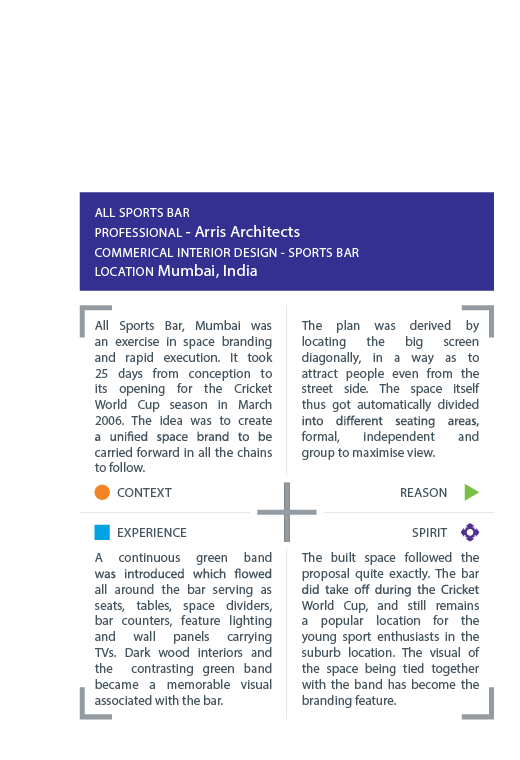
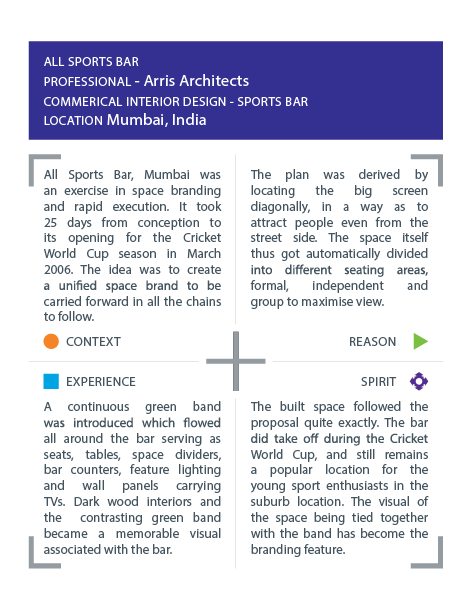
minor wip

diff --git a/aartics/projects/allsportsbar/index.htm b/aartics/projects/allsportsbar/index.htm
@@ -6,7 +6,7 @@
   <title>aartics_sports_bar</title>
   <meta name="aartics portfolio" content="aartics portfolio">
   <meta name="aarti c sharma" content="aartics_portfolio">
-  <link rel="stylesheet" href="css/aartics_projects.css">
+  <link rel="stylesheet" href="../aartics_projects.css">
 </head>
 
 <body>
@@ -19,18 +19,13 @@
   </div>
 </div>
 <div id="project-content">
-  <div class="image-title">
-  This is a pic
-  </div>
-  <img src="local_img/001_all_sports_banner.png">
+  <img id="splash" src="local_img/001_all_sports_banner.png">
+
   <div class="image-title">
   This is a pic
   </div>
   <img src="local_img/allsports_intro.png">
-  <div class="image-title">
-  This is a pic
-  </div>
-  <img src="local_img/003_allsports_01_pic.png">
+
   <div class="image-title">
   This is a pic
   </div>
@@ -42,6 +37,10 @@
   <div class="image-title">
   This is a pic
   </div>
+  <div class="image-title">
+  This is a pic
+  </div>  
+  <img src="local_img/003_allsports_01_pic.png">
   <img src="local_img/allsports_04_pic.png">
   <div class="image-title">
   This is a pic

diff --git a/aartics/projects/aartics_projects.css b/aartics/projects/aartics_projects.css
@@ -14,6 +14,10 @@
   float: left;
 }
 
+#splash {
+  width: 100%;
+}
+
 .project-name {
   float: right;
   padding-right: 10px;
@@ -21,7 +25,7 @@
 
 #project-content {
   text-align: center;
-  padding: 20px 0;
+  /* padding: 20px 0; */
   margin: 15px 0;
 }
 
@@ -39,4 +43,5 @@
 
 body {
   background-color: white;
+  margin: 0;
 }
